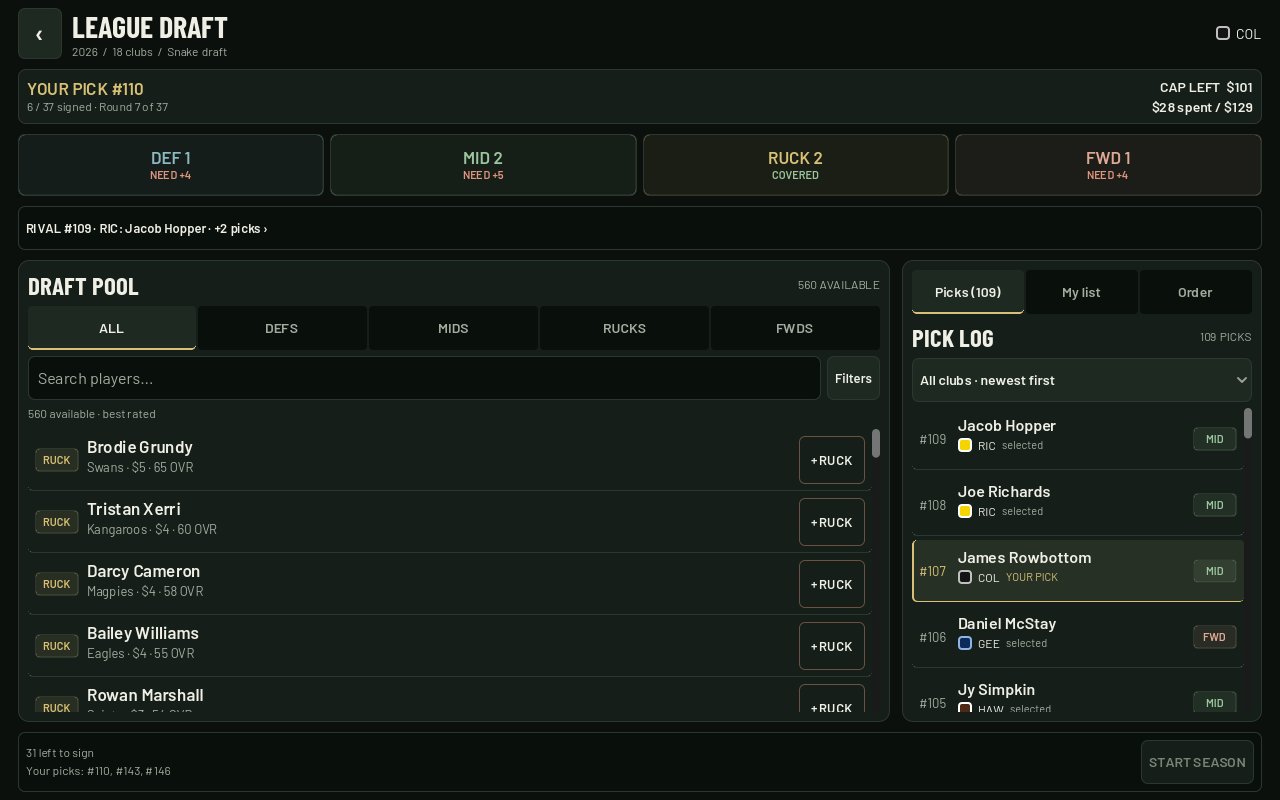
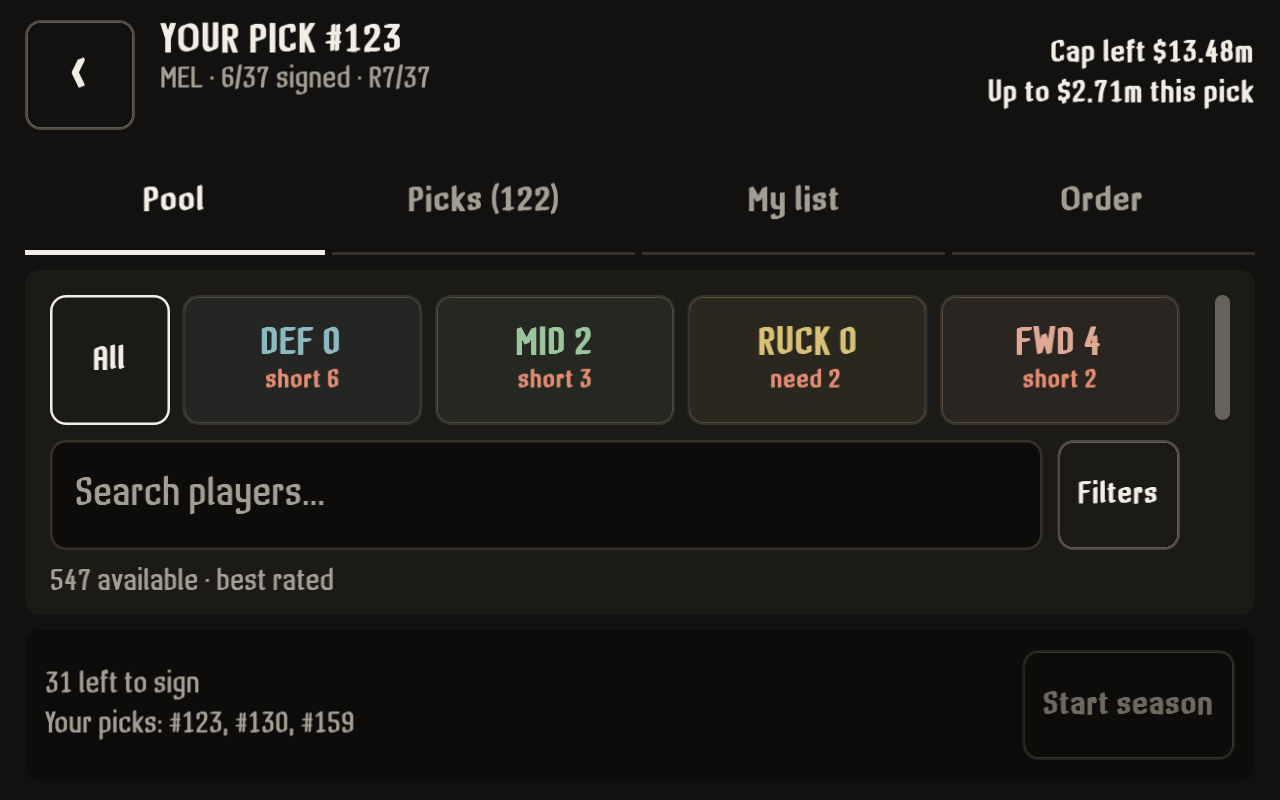
README images: the draft screen in the new typeface (#447)
* README images: the draft screen in the Signwriter typeface

* README: the UI typeface is ARD Signwriter, not Barlow

---------

diff --git a/README.md b/README.md
@@ -105,8 +105,9 @@ freshness alongside ability for every club; a named selection remains yours.
   Returning to the menu offers **Resume Draft**, and the draft is saved to disk
   with the rest of the career (see *Saving* below).
 
-The draft UI uses locally bundled Barlow fonts, with SIL OFL licences under
-`assets/fonts/`. No network access is required by the game.
+The UI uses the project's own ARD Signwriter typeface (Regular and Bold for text, a Display cut
+for scores and figures), bundled under `assets/fonts/` with its licence. The Barlow files
+still in that folder are no longer used by the UI. No network access is required by the game.
 
 Actual Godot captures after six user selections:
 
